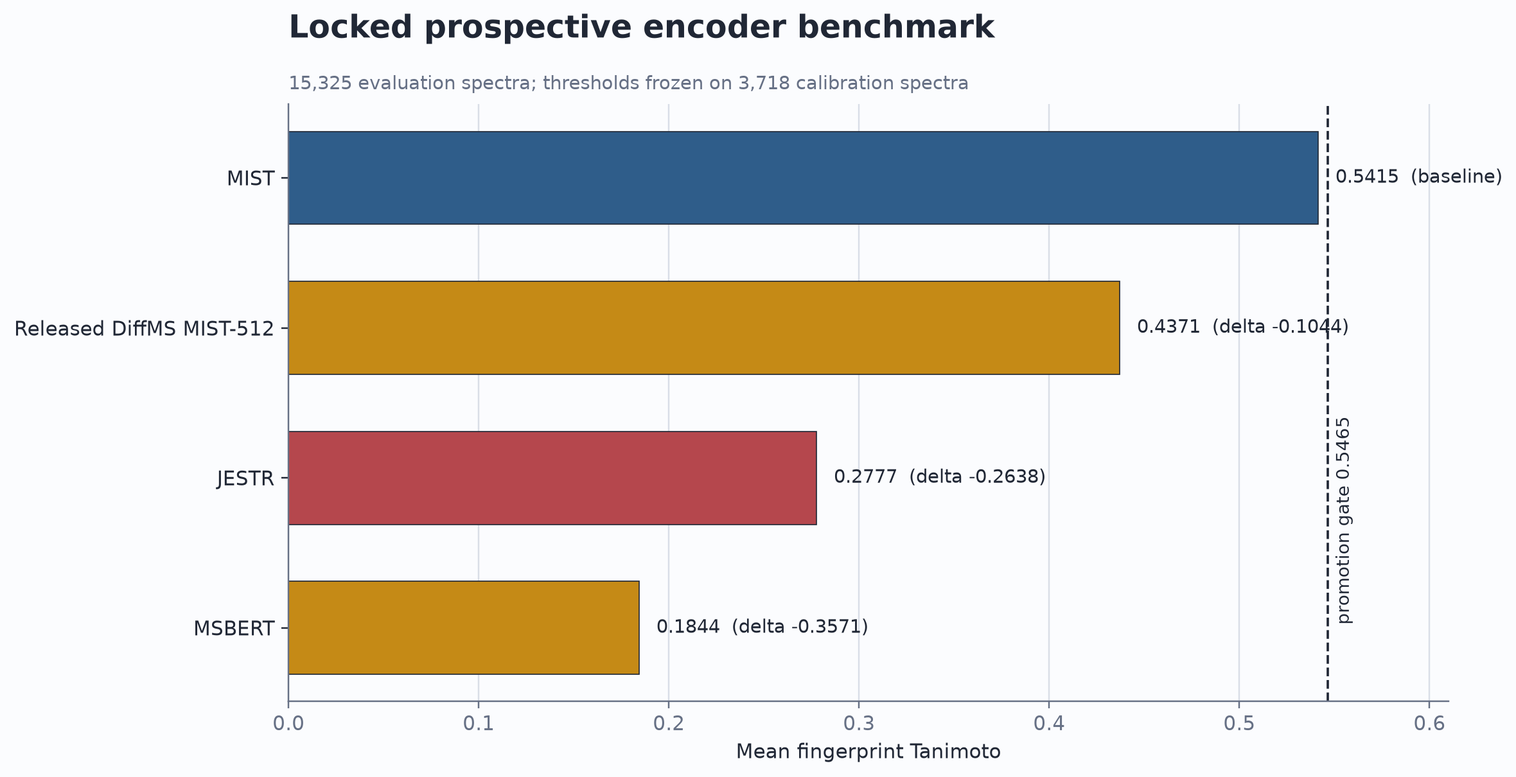
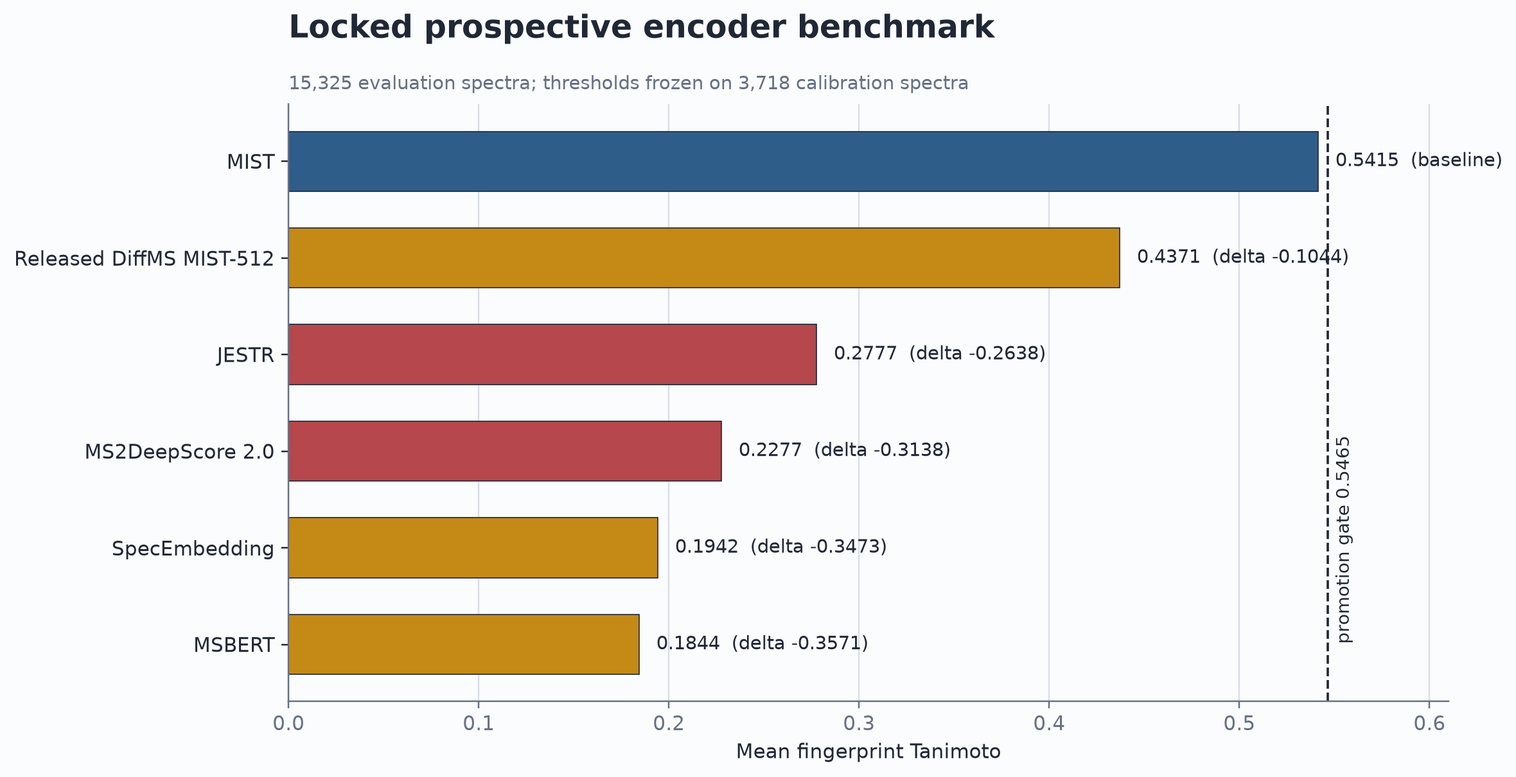
Document extended encoder audit

diff --git a/docs/MSMS_ENCODER_BENCHMARK_REPORT.md b/docs/MSMS_ENCODER_BENCHMARK_REPORT.md
@@ -1,25 +1,31 @@
 # MS/MS Encoder Benchmark: Decision Report and Reproducible Protocol
 
-Date: 2026-07-15
+Date: 2026-07-16
 
 ## Executive decision
 
 MIST remains the FRIGID production encoder. On the locked 15,325-spectrum
 evaluation partition it reached mean fingerprint Tanimoto **0.541498**. The
 closest reproduced alternative, the released 512-dimensional MIST encoder
-packaged with DiffMS, reached **0.437133**. JESTR reached **0.277733**, but the
-strongest official proxy for its released pretraining pool overlaps all
-evaluation rows by exact SMILES, so the checkpoint is not promotion-safe.
-MSBERT reached **0.184421**. No candidate met the required `+0.005` paired gain,
+packaged with DiffMS, reached **0.437133**. JESTR, MS2DeepScore 2.0,
+SpecEmbedding, and MSBERT reached **0.277733**, **0.227692**, **0.194240**, and
+**0.184421**, respectively. No candidate met the required `+0.005` paired gain,
 so none proceeded to DLM.
+
+This is a scoped claim, not a field-wide leaderboard claim: MIST is the best
+audited released candidate for FRIGID's exact spectrum-to-Morgan-4096 contract.
+Retrieval models and formula-free or end-to-end generators optimize different
+objectives and remain separate tracks.
 
 This is a completed finite comparison of the audited subset, not a proposal to
 rerun DreaMS. The
 practical decision is to retain MIST and focus any next experiment on a
-fundamentally different direct fingerprint objective, primarily IDSL_MINT, or
-on a separately evaluated retrieval/reranking interface. MS2DeepScore and the
-public SpecEmbedding model remain deferred until their exact checkpoint,
-license, and external-pretraining overlap evidence are promotion-safe.
+fundamentally different direct fingerprint objective or on a separately
+evaluated retrieval/reranking interface. The exact public MS2DeepScore 2.0 and
+SpecEmbedding checkpoints have now been run. Both fail the quality gate;
+MS2DeepScore also overlaps 94.7% of evaluation rows through its released
+training MGFs, while SpecEmbedding does not publish training identifiers needed
+for a complete overlap audit.
 
 The repository contains an ID-safe evaluator that rejects incompatible rows,
 fingerprint dimensions, thresholds, and leakage evidence instead of silently
@@ -152,7 +158,7 @@ Key prospective hashes:
 
 ## Final prospective benchmark
 
-All four rows below use the same ordered Morgan radius-2, 4096-bit targets, the
+All six rows below use the same ordered Morgan radius-2, 4096-bit targets, the
 same 3,718-row calibration partition, and the same untouched 15,325-row
 evaluation partition. Candidate thresholds were selected only on calibration.
 Confidence intervals are paired molecule-cluster bootstrap intervals over
@@ -163,7 +169,9 @@ Confidence intervals are paired molecule-cluster bootstrap intervals over
 | 1 | MIST | 0.25 | **0.541498** | 0 | [0, 0] | baseline | Keep |
 | 2 | Released DiffMS MIST-512 | 0.30 | 0.437133 | -0.104364 | [-0.143690, -0.069526] | 5,839 / 9,391 / 95 | Quality gate failed; external pretraining overlap unknown |
 | 3 | JESTR + shared frozen probe | 0.975 | 0.277733 | -0.263765 | [-0.279889, -0.248284] | 2,909 / 12,399 / 17 | Not promotion-safe under the official pretraining proxy; quality also failed |
-| 4 | MSBERT + shared frozen probe | 0.95 | 0.184421 | -0.357076 | [-0.377171, -0.337907] | 1,173 / 14,141 / 11 | Quality gate failed; external GNPS overlap unknown |
+| 4 | MS2DeepScore 2.0 + shared frozen probe | 0.975 | 0.227692 | -0.313805 | [-0.329634, -0.297985] | 1,679 / 13,634 / 12 | Quality and released-training overlap gates failed |
+| 5 | SpecEmbedding + shared frozen probe | 0.975 | 0.194240 | -0.347258 | [-0.364820, -0.329236] | 1,386 / 13,921 / 18 | Quality gate failed; external training identifiers unavailable |
+| 6 | MSBERT + shared frozen probe | 0.95 | 0.184421 | -0.357076 | [-0.376898, -0.336925] | 1,173 / 14,141 / 11 | Quality gate failed; external GNPS overlap unknown |
 
 ![Locked prospective encoder ranking](encoder_benchmark_figures/prospective_encoder_ranking.png)
 
@@ -174,7 +182,7 @@ is a directly compatible released encoder.
 
 ### Shared probe and row-lock evidence
 
-MSBERT and JESTR used the same frozen-backbone
+MSBERT, JESTR, MS2DeepScore 2.0, and SpecEmbedding used the same frozen-backbone
 `LayerNorm -> Linear(d, 4096)` head. Model selection used a structure-disjoint
 10% holdout from official train and the locked threshold grid. A fresh head and
 optimizer were then retrained from scratch on all 191,216 eligible train rows
@@ -186,6 +194,8 @@ bundles have identical ordered train IDs, InChIKeys, and Morgan targets; their
 |---|---|---|---|
[5 lines of base64/hex data omitted]
 
 The JESTR audit uses the strongest official conservative proxy because the
@@ -197,21 +207,50 @@ training-identifier file has SHA-256 `85596499835ec4742a5110847186af0f6178933066
 the provenance audit JSON has SHA-256
[1 lines of base64/hex data omitted]
 
+### Newly released checkpoint audits
+
+MS2DeepScore 2.0 was reproduced from the official 2.5.3 source and 500D model.
+Its released positive and negative training MGFs contain 600,158 spectra and
+37,623 unique structure blocks. They overlap 14,514/15,325 evaluation rows
+(94.71%) and 2,280/2,458 evaluation structures (92.76%). The audit JSON has
[1 lines of base64/hex data omitted]
+This overlap is recorded as a failed gate rather than hidden behind an
+`unknown` label.
+
+SpecEmbedding was reproduced from the exact public Hugging Face Space revision,
+including its top-99 peak selection, precursor token, and unmasked mean pooling.
+The associated Figshare archive contains the checkpoint family and analysis
+artifacts but no training-identifier manifest, so external overlap remains
+unknown. Its low score already fails the quality gate independently of that
+missing provenance.
+
+CMSSP was audited but not added to the Morgan ranking. The exact positive-mode
+checkpoint has 349,798,784 parameters and changes the embedding of a fixed
+spectrum when other spectra in the batch change (`L2=15.4131`). The released
+`ProjectionHead` passes a two-dimensional `[batch, projection_dim]` tensor to
+`MultiheadAttention`, which interprets the first dimension as one unbatched
+sequence. Consequently, there is no batch-invariant per-spectrum embedding to
+feed into the shared probe without changing the released model semantics. Its
+released GNPS/MassBank data also overlap 5,611/15,325 evaluation rows (36.61%).
+The batch audit and overlap audit have SHA-256
[2 lines of base64/hex data omitted]
+
 ### Final evidence package
 
-Final joint run:
-`/home/nikolenko/work/Projects/FRIGID_encoder_benchmark_runs/20260715T193500Z_joint_encoder_ranking/benchmark_final`.
+Extended joint run:
+`/home/nikolenko/work/Projects/FRIGID_encoder_benchmark_runs/20260716T002000Z_extended_encoder_ranking/benchmark`.
 Evaluator code revision:
-`16e72eddfc7488006039a95574aeaafd63295d78`.
+`20c4fd60ee48064b54c91d533212de0781825d4b`.
 
 | Artifact | SHA-256 |
 |---|---|
[15 lines of base64/hex data omitted]
@@ -231,6 +270,8 @@ replacement:
 | MIST | 15.5486 | 22.0872 | Baseline |
 | Released DiffMS MIST-512 | 13.3439 | 34.4639 | Systematic under-call: fewer FP bits but 12.38 more FN bits than MIST |
 | JESTR probe | 29.8779 | 38.0876 | Both over- and under-prediction; checkpoint is not promotion-safe under the official proxy |
+| MS2DeepScore 2.0 probe | 33.4741 | 41.6915 | Both error types are high; released training overlap also prevents promotion |
+| SpecEmbedding probe | 23.0612 | 47.1504 | Strong under-call; external training identities unavailable |
 | MSBERT probe | 40.5085 | 45.1088 | Broad failure of the linear fingerprint interface |
 
 The released MIST-512 encoder is the only alternative with coherent local
@@ -409,16 +450,19 @@ the same formula source, generation budget, seeds, filtering, and ranking.
 ### Representation taxonomy
 
 - **Direct fingerprint predictors:** MIST, released MIST-512 from DiffMS,
-  IDSL_MINT, and MetFID. Only the first two were ready for exact local
-  inference; MetFID uses incompatible bit semantics.
+  IDSL_MINT, ms-mole, MetFID, and the unreleased MARLIN DreaMS head. Only the
+  two released MIST checkpoints were ready for exact inference without new
+  training; MetFID uses incompatible bit semantics.
 - **Dense spectrum encoders:** MSBERT, MS2DeepScore, and SpecEmbedding. They
   require a common projection for the existing DLM interface and should also
   be judged separately for retrieval.
 - **Contrastive spectrum-molecule encoders:** JESTR, CMSSP, ChemEmbed, CLERMS,
-  and MSAlign. Their native objective is alignment/ranking, not ordered Morgan
-  bit prediction.
-- **Formula-aware or hybrid generators:** DiffMS and MSFlow. These alter more
-  than the encoder and therefore belong in a separate end-to-end track.
+  SpecBridge, MVP, FLARE, and MSAlign. Their native objective is
+  alignment/ranking, not ordered Morgan bit prediction.
+- **Formula-aware, formula-free, or hybrid generators:** DiffMS, MSFlow,
+  MARLIN, FlowMS, MSAnchor, and test-time-tuned spectrum language models.
+  These alter more than the encoder and therefore belong in a separate
+  end-to-end track.
 
 ### Comparative reproducibility table
 
@@ -426,17 +470,21 @@ the same formula source, generation budget, seeds, filtering, and ranking.
 |---|---|---|---|---|---|
 | MIST (2023) | Formula-aware spectrum-to-Morgan predictor | Local MSG checkpoint; fingerprint prediction | MIT code and released weights; separate weight license unknown | Direct Morgan-4096; job `172` took 3m07s for 19,043 rows | Baseline, 0.541498 prospective Tanimoto |
 | MSBERT (2024) | Transformer, 512D dense spectrum embedding | GNPS; library matching, reported recall@1 0.7871 on a structure-disjoint GNPS subset | MIT code and released weights; no separate weight license found | Shared 512->4096 probe; 121.6M parameters; export job `175` took 3m11s | Reproduced, 0.184421; GNPS overlap unknown |
-| MS2DeepScore 2.0 (2026; original 2021) | Siamese dense similarity encoder, 500D | Released model trained on combined GNPS, MoNA, MassBank, and MSnLib; reported metrics are not Morgan Tanimoto | Apache-2.0 code and Zenodo weights; separate weight license unknown | Shared 500->4096 probe plus separate retrieval metric; not run | External-pretraining identifiers not yet mapped to MSG |
+| MS2DeepScore 2.0 (2026; original 2021) | Siamese dense similarity encoder, 500D | Released model trained on combined GNPS, MoNA, MassBank, and MSnLib; reported metrics are not Morgan Tanimoto | Apache-2.0 code and Zenodo model/data records | Shared 500->4096 probe; jobs `189`, `191`, `192`, and `194` | 0.227692; released training overlaps 94.7% of evaluation rows |
 | JESTR (2025) | Binned-spectrum MLP, 512D joint spectrum-molecule embedding | Candidate ranking on NPLIB1 and MassSpecGym-style data | MIT code and released checkpoints; separate weight license unknown | Shared 512->4096 probe; export job `178` took 1m17s | 0.277733; strongest official proxy has 100% exact-SMILES overlap |
-| SpecEmbedding (2025) | Transformer, 512D supervised-contrastive spectrum embedding | GNPS retrieval; reported top-1 hit ratio 0.8173 | Public code; exact checkpoint and weight license not confirmed locally | Shared 512->4096 probe; not run | Historical 0.3184 artifact is missing and internal `SpecEmbedNet` is a different model |
-| IDSL_MINT (2024) | Sequence model over active fingerprint bits | Direct metabolite fingerprint/structure annotation | MIT code; no general checkpoint matching Morgan-4096 | Direct exact-target training required; compute not yet measured | Best remaining distinct direct hypothesis |
-| CMSSP (2024) | 2048D cross-modal spectrum-structure embedding | Metabolite identification; reported CASMI top-1 and independent top-10 gains | Apache-2.0 model-card bundle with `model.pth`; exact mode variants and separate weight license unknown | Shared 2048->4096 probe or retrieval track; not run | Lower priority; checkpoint overlap audit required |
+| SpecEmbedding (2025) | Transformer, 512D supervised-contrastive spectrum embedding | GNPS retrieval; reported top-1 hit ratio 0.8173 | Exact public Space source/checkpoint pinned; Space card MIT; Figshare archive CC BY 4.0 | Shared 512->4096 probe; jobs `190` and `194` | 0.194240; published archive omits training identities, so overlap is unknown |
+| IDSL_MINT (2024) | Autoregressive sequence model over active fingerprint bits | Direct metabolite fingerprint/structure annotation | MIT package; no general pretrained model matching Morgan-4096 | Requires new exact-target training and autoregressive decoding | Configurable for the contract, but not a released checkpoint comparison |
+| ms-mole (2026) | Binned-spectrum MLP with direct Morgan-4096 heads and multiple losses | MassSpecGym retrieval and fingerprint-loss study | MIT code; no pretrained checkpoints | Direct contract match after new training | Official IoU-loss test Tanimoto is 0.1942; useful objective study, not evidence of beating the locked 0.5415 baseline |
+| CMSSP (2024) | 2048D cross-modal spectrum-structure embedding | Metabolite identification; reported CASMI and independent-set retrieval gains | Apache-2.0 Hugging Face bundle; exact positive checkpoint pinned | Checkpoint and released data audited in jobs `195` and `196` | Not a well-defined per-spectrum encoder in released code: one spectrum changes with batch neighbors; 36.6% evaluation-row overlap |
 | ChemEmbed (2026) | Dense chemical/spectrum embedding | Retrieval and structure-related embedding metrics | Code and Drive-hosted weights; MIT stated in README but no separate LICENSE; weight terms unknown | Shared probe or retrieval track; not run | Artifact and overlap evidence incomplete |
 | DiffMS (2025) | Formula-aware MIST encoder plus diffusion generator | Conditional de novo structure generation | MIT code and Zenodo weights; separate weight license unknown | Released MIST-512 direct row evaluated; generator is a separate track | Direct released encoder scored 0.437133; not a DiffMS generator gain |
 | MSFlow (2026 preprint) | 512D continuous spectrum representation plus flow decoder | End-to-end molecular generation | Repository says MIT, paper says non-commercial usage; Drive-hosted weight terms unknown | Not compatible with an encoder-only swap; compute not measured | License conflict and separate generator benchmark required |
 | CLERMS (2023) | 200D contrastive embedding | Spectrum similarity/retrieval | Public code; pretrained weights and license not confirmed | Shared probe/retrieval track; not run | Reproducibility evidence weaker than selected probes |
 | MetFID (2020; public CNN implementation 2022) | Custom 5,618-bit fingerprint | Metabolite identification | Public code and Drive-hosted `.h5` weights; code/weight terms unknown; training partly relies on closed NIST data | Bit identity incompatible with DLM; retraining/new head required | Excluded from direct comparison |
 | MSAlign (2026) | DreaMS/ChemBERTa-aligned embedding | Cross-modal retrieval/ranking | Paper is CC BY 4.0; stated code URL currently returns 404; weights/license unknown | Retrieval watchlist only; not currently reproducible | DreaMS-derived direct fingerprint line is already closed |
+| SpecBridge (2026) | DreaMS-to-ChemBERTa alignment adapter | Retrieval on MassSpecGym, Spectraverse, and MSnLib | Paper links code and MIT Hugging Face weights, but the code repository is unresolved and the model endpoint returns authorization failure as of 2026-07-16 | Retrieval track only | No currently retrievable immutable implementation bundle |
+| MVP / FLARE (2026) | Multiview global alignment / fine-grained peak-node alignment | Candidate retrieval with formula- or mass-based sets | Papers available; no promotion-ready checkpoint plus exact training manifest found | Retrieval track only | Cannot be interpreted as Morgan-4096 replacement evidence |
+| MARLIN (2026 preprint) | DreaMS fingerprint head plus formula-free block-diffusion decoder | Formula-free de novo generation on NPLIB1 | Paper states code and models will be released upon publication | Separate end-to-end track | Important current method, but not reproducible yet and not a released encoder candidate |
 
 Primary references:
 
@@ -454,6 +502,11 @@ Primary references:
 - CLERMS: <https://doi.org/10.1021/acs.analchem.3c00260>
 - MetFID: <https://pmc.ncbi.nlm.nih.gov/articles/PMC9547616/>
 - MSAlign: <https://openreview.net/forum?id=ZoBAklPA7R>
+- ms-mole: <https://arxiv.org/abs/2602.16507>
+- SpecBridge: <https://arxiv.org/abs/2601.17204>
+- MVP: <https://pmc.ncbi.nlm.nih.gov/articles/PMC12980492/>
+- FLARE: <https://doi.org/10.64898/2026.01.27.702086>
+- MARLIN: <https://arxiv.org/abs/2607.04774>
 
 ## Reproducible evaluator
 
@@ -532,31 +585,36 @@ non-empty directory. It writes:
   promotion-safe.
 - The released DiffMS MIST-512 encoder export completed as job `183`; its state
   was matched to the official archive and evaluated directly.
-- The final joint evaluator checked row identity, dimensions, frozen
+- MS2DeepScore 2.0 export/probe completed as job `189`; released training-data
+  audits completed as jobs `191` and `192`.
+- The exact public SpecEmbedding Space checkpoint export/probe completed as job
+  `190`.
+- The extended six-model joint evaluator completed as job `194` and checked row
+  identity, dimensions, frozen
   thresholds, paired intervals, overlap evidence, categorical strata, and
   per-spectrum errors in one run.
+- CMSSP checkpoint-semantics and released-training overlap audits completed as
+  jobs `195` and `196`.
 
 ### Deferred with an explicit reason
 
-- **MS2DeepScore 2.x:** code and pretrained models are available, but the exact
-  external pretraining identifiers have not been mapped to the locked MSG
-  structures. A numerical probe without that audit would not be
-  promotion-safe.
-- **Public SpecEmbedding:** the historical 0.3184 result has no surviving
-  matching prediction/checkpoint artifact. The exact public bundle and its
-  weight license also remain unconfirmed, so the internal `SpecEmbedNet` was
-  not relabeled as the public model.
 - **IDSL_MINT:** there is no general pretrained checkpoint for this exact
-  Morgan-4096 contract. It requires a new direct training run and is the next
-  distinct encoder hypothesis, not a ready-weight reproduction.
-- **CMSSP, ChemEmbed, and CLERMS:** lower-priority dense/contrastive extensions;
-  their exact checkpoint and training-overlap evidence was not stronger than
-  the selected Wave-1 models.
+  Morgan-4096 contract. It requires a new direct autoregressive training run,
+  so it is not a ready-weight reproduction.
+- **ms-mole:** directly supports Morgan-4096 but publishes code rather than
+  checkpoints. Its own five-seed IoU-loss result is 0.1942 test Tanimoto, well
+  below the locked MIST result even before accounting for the different split.
+- **ChemEmbed and CLERMS:** dense/retrieval extensions with incomplete immutable
+  weight, license, and exact training-manifest evidence.
 - **DiffMS and MSFlow generators:** these change the generator/decoder, so they
   belong to a separate end-to-end benchmark and cannot be credited as a direct
   MIST encoder gain.
-- **MSAlign:** kept as a retrieval/reranking watch item; another DreaMS-derived
-  fingerprint replacement is not justified by the closed DreaMS line.
+- **SpecBridge, MVP, FLARE, and MSAlign:** retrieval/reranking methods rather
+  than direct Morgan predictors; no complete promotion-ready artifact bundle
+  was available.
+- **MARLIN:** the July 2026 formula-free generator includes a DreaMS fingerprint
+  head, but its paper explicitly defers code and trained models until
+  publication.
 
 ### DLM gate outcome
 
@@ -586,7 +644,7 @@ methodology.
 | Study prior report, required sections, and linked sheets | Complete | Historical values and closed branches were extracted before candidate selection |
 | Obtain and lock canonical data and baseline | Complete from prior handoff | Canonical files on `spectrum` were verified by path and SHA-256; no new live contact was needed |
 | Survey and classify current encoders beyond MIST/DreaMS | Complete | Representation taxonomy, candidate table, primary references, reproducibility decisions |
-| Reproduce multiple selected approaches | Partial for the evaluated audited subset | Released MIST-512, JESTR, and MSBERT; ready-weight MS2DeepScore was deferred pending overlap mapping |
+| Reproduce multiple selected approaches | Complete for runnable released encoder checkpoints | Released MIST-512, JESTR, MSBERT, MS2DeepScore 2.0, and SpecEmbedding were evaluated; CMSSP was excluded by a reproduced batch-semantics defect and overlap audit |
 | Run one common benchmark and retain per-spectrum evidence | Complete | 15,325 evaluation rows, frozen thresholds, paired metrics, immutable hashes |
 | Analyze errors and spectrum/chemistry regimes | Complete within available labels | Adduct, instrument, precursor mass, peak count, target density, and formula-composition proxies |
 | Validate compatible winners through DLM | Partial; intentionally skipped by the locked gate | No clean candidate passed the encoder gate, so literal end-to-end acceptance remains unfulfilled |
@@ -595,19 +653,17 @@ methodology.
 
 ## Final interpretation
 
-The benchmark does not support replacing MIST. Three distinct practical routes
-were tested: a released direct fingerprint encoder, a contrastive
-spectrum-molecule embedding with a shared probe, and a pretrained spectrum
-transformer with the same probe. All are materially below MIST, and JESTR is
-also invalid for promotion because the strongest official pretraining proxy
-includes the evaluation structures while the checkpoint has no exact-run
-training manifest.
+The benchmark does not support replacing MIST. Released direct fingerprint,
+contrastive spectrum-molecule, spectrum-similarity, and spectrum-transformer
+routes were tested. All are materially below MIST. JESTR and MS2DeepScore 2.0
+also fail explicit released-training overlap checks; SpecEmbedding and MSBERT
+retain unknown external overlap.
 
 MIST-512's peak-rich local win is the only observed specialist pattern. It may
 justify a prospectively defined conditional ensemble study after
-external-overlap auditing, but not a global swap. The best next direct
-hypothesis is IDSL_MINT trained on the exact Morgan-4096 contract.
-Retrieval-oriented dense encoders should be
+external-overlap auditing, but not a global swap. IDSL_MINT and ms-mole are
+train-from-scratch research hypotheses rather than omitted released
+checkpoints. Retrieval-oriented dense encoders should be
 judged in a separate reranking track rather than forced through a weak linear
 fingerprint interface.
 

diff --git a/docs/MSMS_ENCODER_BENCHMARK_SLIDES.md b/docs/MSMS_ENCODER_BENCHMARK_SLIDES.md
@@ -7,7 +7,7 @@ description: Completed evidence, errors, caveats, and production decision
 # MS/MS Encoder Benchmark for FRIGID
 
 Completed evidence, errors, caveats, and production decision
-2026-07-15
+2026-07-16
 
 ---
 
@@ -25,11 +25,12 @@ Completed evidence, errors, caveats, and production decision
 - MSG: 231,104 total spectra.
 - Eligible train / validation / test: 191,216 / 19,043 / 17,082.
 - Calibration: 3,718 rows; untouched evaluation: 15,325 rows.
-- MIST, released DiffMS MIST512, JESTR, and MSBERT were scored.
+- MIST, released DiffMS MIST512, JESTR, MS2DeepScore 2.0, SpecEmbedding,
+  and MSBERT were scored.
 - Every result is tied to row-aligned IDs, targets, checkpoints, and manifests.
 
-The evaluated audited subset is complete; MS2DeepScore remains deferred pending
-external-training overlap mapping.
+The released MS2DeepScore training data were mapped explicitly; CMSSP was also
+audited for checkpoint semantics and released-training overlap.
 
 ---
 
@@ -101,6 +102,8 @@ A candidate proceeds only if:
 | MIST | **0.5414977** | — | Keep |
 | Released DiffMS MIST512 | 0.4371332 | -0.1043645 | Below gate |
 | JESTR | 0.2777330 | -0.2637647 | Proxy overlap; below gate |
+| MS2DeepScore 2.0 | 0.2276923 | -0.3138054 | 94.7% row overlap; below gate |
+| SpecEmbedding | 0.1942398 | -0.3472579 | Below gate; overlap unknown |
 | MSBERT | 0.1844215 | -0.3570762 | Below gate |
 
 No candidate reached the required **+0.005** gain.
@@ -117,8 +120,9 @@ No candidate reached the required **+0.005** gain.
 
 - Released DiffMS MIST512 is the strongest tested replacement, but trails MIST
   by **0.1043645** mean Tanimoto.
+- MS2DeepScore 2.0 and SpecEmbedding trail by **0.3138054** and **0.3472579**.
 - MSBERT trails by **0.3570762**.
-- Neither result is close to the promotion boundary.
+- None of these results is close to the promotion boundary.
 - The encoder gate failed, so no candidate was connected to DLM.
 
 This is a negative result for the evaluated subset; the locked gate leaves no
@@ -191,6 +195,19 @@ insufficient for a promotion-safe held-out claim.
 
 ---
 
+## CMSSP cannot enter the shared probe unchanged
+
+- Exact positive checkpoint: 349.8M parameters, Apache-2.0 model bundle.
+- A fixed spectrum changes when batch neighbors change (`L2=15.4131`).
+- Cause: the released 2D tensor is interpreted by `MultiheadAttention` as one
+  unbatched sequence across spectra.
+- Released GNPS/MassBank data overlap **5,611 / 15,325** evaluation rows.
+
+Using batch size one would change the released computation, not reproduce a
+stable pretrained per-spectrum encoder.
+
+---
+
 ## Completed evidence package
 
 - strict prediction-bundle validation;
@@ -202,14 +219,17 @@ insufficient for a promotion-safe held-out claim.
 
 ---
 
-## Remaining work
+## Current 2026 landscape
 
 - Preserve MIST and the locked evaluation contract as the production reference.
-- **IDSL_MINT:** next distinct direct Morgan-4096 hypothesis; requires training,
-  because no ready checkpoint matches the contract.
-- **MS2DeepScore / public SpecEmbedding:** run only after exact checkpoint,
-  license, and external-training overlap evidence is complete.
-- Treat retrieval/reranking as a separate leakage-clean track.
+- **IDSL_MINT** and **ms-mole** require new training; neither provides a
+  promotion-ready Morgan-4096 checkpoint. The ms-mole paper reports 0.1942
+  test Tanimoto for its best IoU-loss model.
+- **SpecBridge, MVP, FLARE, and MSAlign** are retrieval methods, not drop-in
+  fingerprint encoders; current artifact availability is incomplete.
+- **MARLIN, MSFlow, FlowMS, and MSAnchor** are separate end-to-end generators.
+- MARLIN is especially current, but explicitly defers code and model release
+  until publication.
 
 The locked gate intentionally skipped DLM, so literal end-to-end acceptance is
 partial rather than pending execution for these failed candidates.
@@ -220,11 +240,12 @@ partial rather than pending execution for these failed candidates.
 
 - Keep MIST in production.
 - Released DiffMS MIST512 and MSBERT do not reach the encoder gate.
+- MS2DeepScore 2.0 and SpecEmbedding do not reach the encoder gate.
 - JESTR is not promotion-safe under the strongest official pretraining proxy
   and is also below the baseline.
 - No candidate reached **MIST + 0.005**.
 - No DLM run was triggered.
 
-The evaluated audited subset is finished: MIST remains. The broader search is
-not exhausted, and end-to-end acceptance is partial by the predeclared gate;
-any next candidate must enter through the same contract.
+MIST is the best audited released encoder for FRIGID's exact Morgan-4096
+contract. This is not a claim that MIST is universally best for retrieval or
+formula-free generation; those are different, separately evaluated tasks.

diff --git a/docs/encoder_benchmark_figures/CHART_MAP.md b/docs/encoder_benchmark_figures/CHART_MAP.md
@@ -5,6 +5,6 @@
 | `historical_encoder_metrics.png` | How far did historical alternatives move relative to MIST? | Sorted horizontal bar with promotion reference | model, mean fingerprint Tanimoto, series | DreaMS variants remain far below MIST; residual gain misses the 0.005 gate | Blue focal, gold alternative, neutral DreaMS | Historical run JSON and report values recorded in `MSMS_ENCODER_BENCHMARK_REPORT.md` |
[1 lines of base64/hex data omitted]
 | `dlm_fingerprint_upper_bound.png` | How much does DLM improve when only the fingerprint source becomes ideal? | Grouped horizontal bars | metric, ground-truth value, MIST-binary value | Fingerprint quality materially affects generation, while the remaining gap shows decoder/ranking limits | Blue ground truth, gold MIST binary | Historical paired diagnostic, 1,400 spectra, partial run |
[2 lines of base64/hex data omitted]
 
 All figures are static PNG files for the Markdown report and Marp slide deck.
